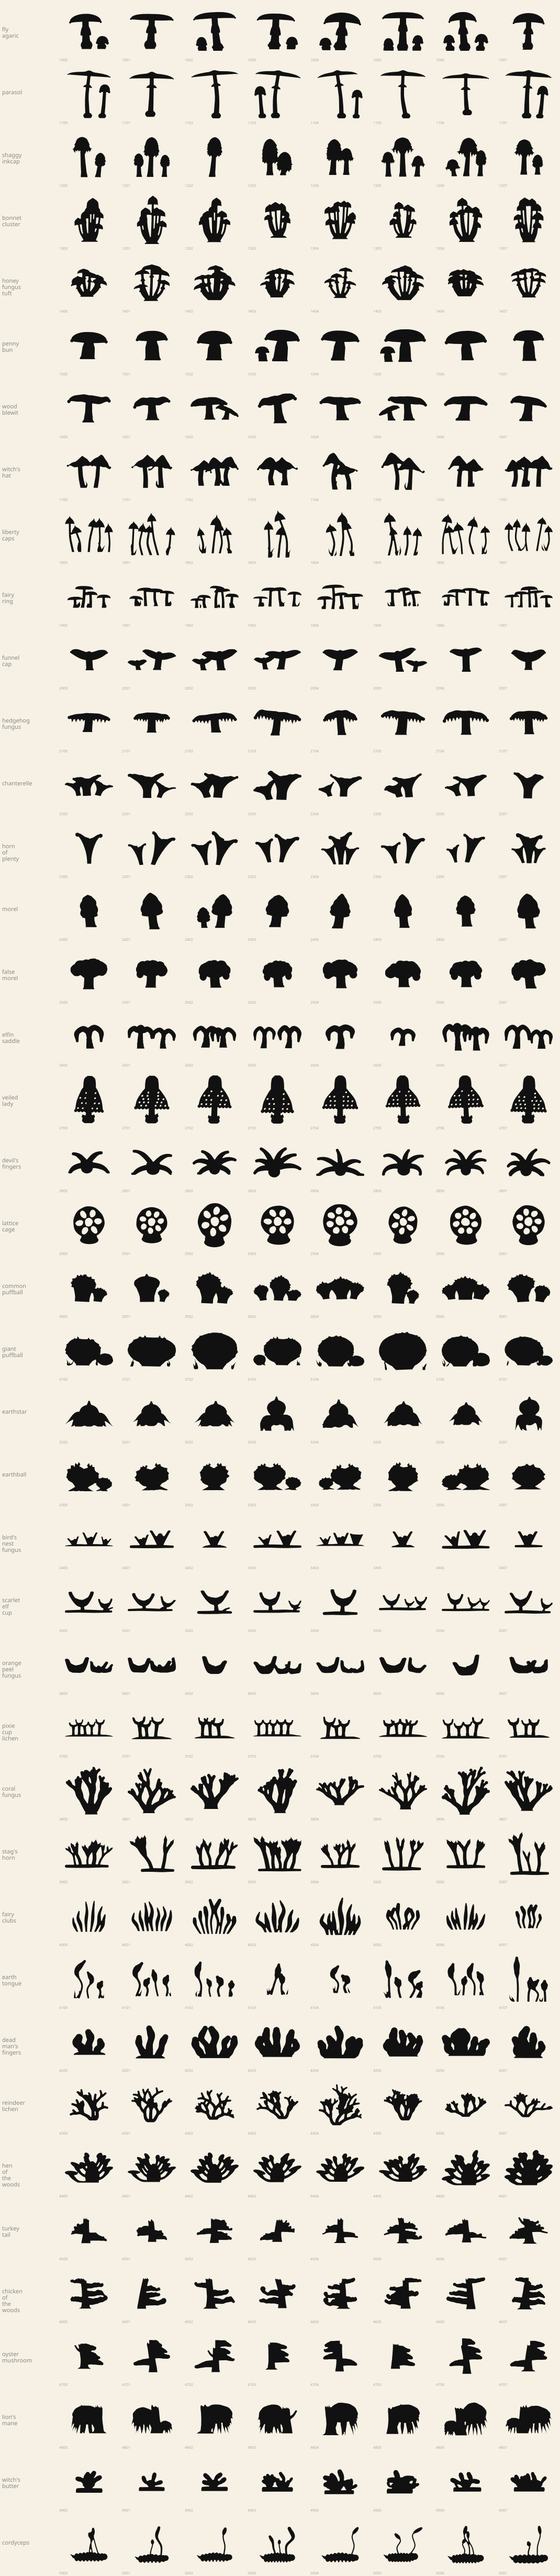
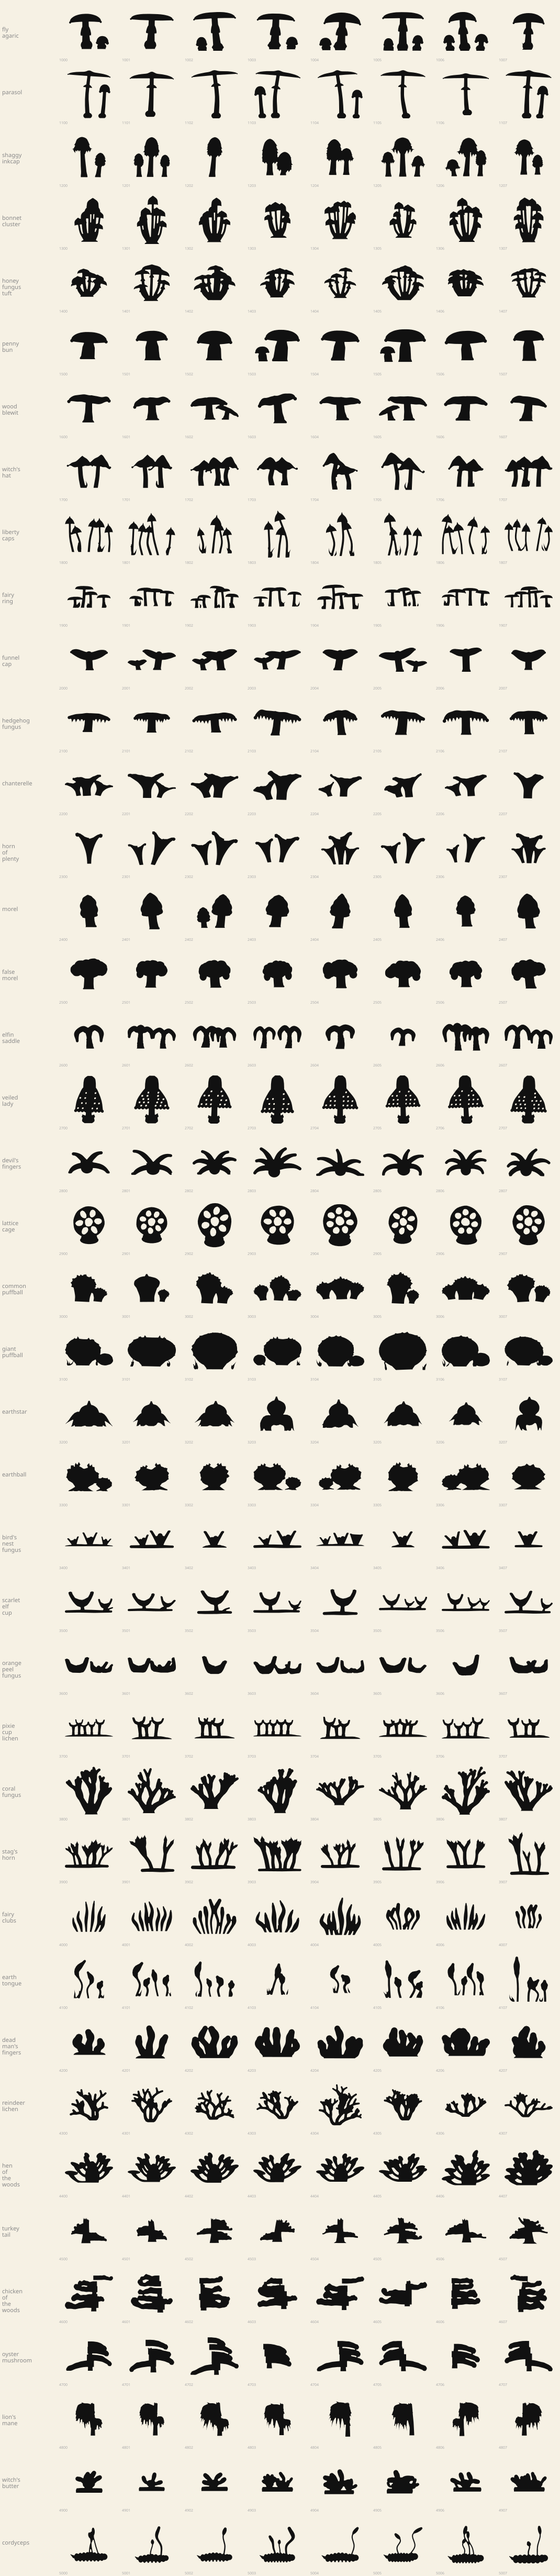
fungus: M2 fix run 2 - lion's mane spine cascade on slim snag, slim stub with dominant shelves for oyster and chicken

diff --git a/src/gen/tags/fungus.js b/src/gen/tags/fungus.js
@@ -1015,24 +1015,25 @@ const species = [
     return build(r, ch, { ...CAP.fan(r), seat: 1.1 }, { stem: 0.02, rake: 0.6, dorsal: r.chance(0.5) ? { type: 'fungusFrill', h: r.range(0.8, 1.2), wid: 0.16, tiers: r.int(1, 2) } : null });
   } },
   { name: 'chicken of the woods', w: 1.8, genes: r => {
-    const ch = stub(r, { snag: 0, h: r.range(30, 36) }), n = r.int(3, 4), sd0 = r.sign(), t0 = r.range(0.18, 0.3);
+    const ch = stub(r, { snag: 0, w: r.range(2.2, 2.7), h: r.range(26, 32), flare: 0.3, roots: false }), n = r.int(3, 5), sd0 = r.sign(), t0 = r.range(0.2, 0.32);
     ch.shelves = [];
-    for (let i = 0; i < n; i++) ch.shelves.push({ t: t0 + i * r.range(8, 9.5) / ch.h, sd: (i === n - 1 && r.chance(0.4)) ? -sd0 : sd0, len: r.range(18, 26) * (1 - 0.12 * i), th: r.range(7, 8.5) * (1 - 0.08 * i), up: 0.55, down: 0.45, k: 2.0, kb: 0.9, wavy: r.range(0.4, 0.7), droop: r.range(-0.16, 0.06), rim: 0.3 });
+    for (let i = 0; i < n; i++) ch.shelves.push({ t: t0 + i * r.range(8, 9.5) / ch.h, sd: (i === n - 1 && r.chance(0.4)) ? -sd0 : sd0, len: r.range(24, 32) * (1 - 0.1 * i), th: r.range(7, 8) * (1 - 0.08 * i), up: 0.6, down: 0.5, k: 1.3, kb: 0.9, wavy: r.range(0.5, 0.8), droop: r.range(-0.12, 0.1), rim: 0.5 });
     if (r.chance(0.6)) ch.shelves.push({ t: r.range(0.3, 0.6), sd: -sd0, len: r.range(10, 14), th: 7, up: 0.5, down: 0.5, k: 2.4, wavy: 0.4, rim: 0.38 });
     return build(r, ch, { ...CAP.fan(r), thick: 0.34, rim: 0.2, seat: 1.1 }, { stem: 0.02, rake: 0.6, dorsal: { type: 'fungusFrill', h: r.range(1, 1.5), wid: 0.24, tiers: 2 } });
   } },
   { name: 'oyster mushroom', w: 2, genes: r => {
-    const ch = stub(r, { h: r.range(28, 34) }), sd0 = r.sign(), t0 = r.range(0.25, 0.45), n = r.int(3, 4);
+    const ch = stub(r, { w: r.range(2.2, 2.7), h: r.range(26, 32), flare: 0.3, roots: false, snag: 0 }), sd0 = r.sign(), t0 = r.range(0.25, 0.4), n = r.int(3, 5);
     ch.shelves = [];
-    for (let i = 0; i < n; i++) ch.shelves.push({ t: t0 + i * r.range(7, 8.5) / ch.h, sd: (n > 3 && i === 0) ? -sd0 : sd0, len: r.range(17, 22) * (1 - 0.1 * i), th: r.range(6, 7), up: 0.55, down: 0.75, k: 2.6, kb: 0.55, wavy: r.range(0.1, 0.3), droop: r.range(0.12, 0.22), rim: 0.24 });
+    for (let i = 0; i < n; i++) ch.shelves.push({ t: t0 + i * r.range(7, 8.5) / ch.h, sd: (n > 3 && i === 0) ? -sd0 : sd0, len: r.range(22, 28) * (1 - 0.08 * i), th: r.range(6, 7), up: 0.5, down: 0.6, k: 1.2, kb: 0.6, wavy: r.range(0.1, 0.25), droop: r.range(0.22, 0.34), rim: 0.5 });
     const oy = { form: 'cap', span: 2, w: r.range(1.7, 2.2), h: r.range(0.5, 0.7), a: 2.6, b: 0.5, under: 0.3, rim: 0.12, curl: r.range(-0.25, 0.1), skew: 0, thick: 0.2, wavy: r.range(0, 0.2) };
     return build(r, ch, { ...oy, seat: 1.1 }, { stem: 0.3, rake: 0.4 });
   } },
   { name: 'lion\'s mane', w: 1.8, genes: r => {
-    const ch = stub(r, { w: r.range(3.8, 4.6), h: r.range(28, 36), lean: r.range(-0.1, 0.1) }), sd = r.sign(), s = r.range(8, 9.5);
-    const mn = { form: 'mane', span: 2, w: r.range(1.8, 2.3), h: r.range(1.6, 2.1), teeth: r.int(15, 20), tl: r.range(1.5, 2.2), bulb: 0, lend: 0.72 };
-    ch.items = [{ t: r.range(0.6, 0.78), sd, ax: -0.1, stem: 0, turn: 0, s, fb: { ...mn, h: mn.w * 1.5, w: mn.h * 1.25 } }];
-    if (r.chance(0.35)) ch.items.push({ t: r.range(0.25, 0.4), sd: -sd, ax: -0.1, stem: 0, s: s * 0.55, fb: { ...mn, h: mn.w * 1.5, w: mn.h * 1.25, teeth: 11 } });
+    // a rounded cascade of fine hanging spines off the side of a slim snag, clear of the ground
+    const ch = stub(r, { w: r.range(1.8, 2.2), h: r.range(36, 42), flare: 0.35, roots: false, snag: 0, teeth: r.int(2, 3), lean: r.range(-0.06, 0.06) }), sd = r.sign(), s = r.range(7.5, 8.5);
+    const mn = { form: 'mane', span: 2, w: r.range(1.5, 1.8), h: r.range(1.7, 2.0), teeth: r.int(26, 34), tl: r.range(1.5, 1.9), bulb: 0, lend: 0.72 };
+    ch.items = [{ t: r.range(0.78, 0.86), sd, ax: -0.05, stem: 0, turn: 0, s, fb: mn }];
+    if (r.chance(0.4)) ch.items.push({ t: r.range(0.42, 0.5), sd: -sd, ax: -0.05, stem: 0, s: s * 0.5, fb: { ...mn, teeth: 14 } });
     return build(r, ch, mn, { stem: 0.02, hw: 0.7 });
   } },
   { name: 'witch\'s butter', w: 1.5, genes: r => {

diff --git a/docs/tags/fungus.md b/docs/tags/fungus.md
@@ -27,6 +27,13 @@ gills/frills, puffball tails and coral antlers read well. Default eyes: none.
 Updated 2026-11-13 (species-builder run on main; review rounds done). Sheets:
 `out/roads/03-fungus-species.png`, `out/roads/03-fungus-mixes.png`.
 
+M2 fix run 2 (judged at --cell 60): lion's mane is now a rounded cascade of 26-34 fine short
+spines hung high off a slim snag (no ground-reaching spines, no second stump; was reading as
+an elephant). Oyster and chicken of the woods use a slim rootless stub (w 2.2-2.7) with longer,
+round-rimmed shelves (rim 0.5) so shelves dominate; oyster shelves droop as tongues. Chicken
+still a little blocky when 5 shelves stack. Minor items (puffball, earthball, false morel,
+liberty caps, earthstar) untouched.
+
 - **45 species** (was 46 unreviewed; wood ear cut). Stem-and-cap agarics are 13 of 45.
 - **Strong**: fly agaric, parasol, shaggy inkcap, bonnet cluster, liberty caps, witch's hat,
   funnel cap, hedgehog, chanterelle, morel, veiled lady, devil's fingers (egg + arms),
